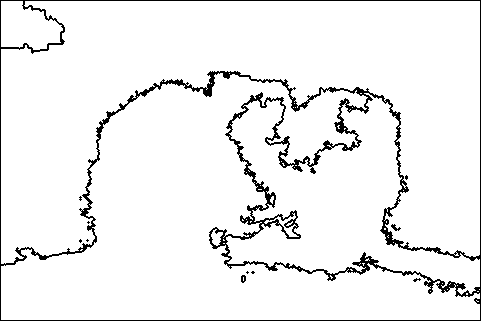
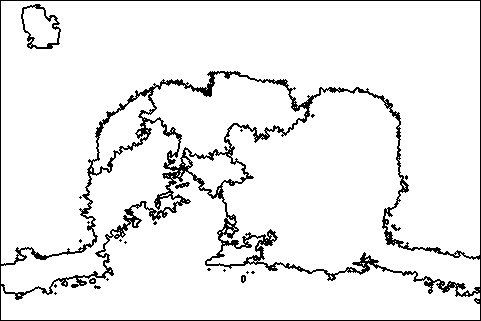
now takes a random amount of segments, between min and max

diff --git a/moea/src/main/java/moea/Chromosome.java b/moea/src/main/java/moea/Chromosome.java
@@ -13,6 +13,8 @@ public class Chromosome {
     MST mst;
     int numberOfPixels;
     int minSegments;
+    int maxSegments;
+    int wantedSegments;
 
     ArrayList<Pixel> rootNodes;
     ArrayList<Segment> segments;
@@ -32,10 +34,12 @@ public class Chromosome {
 
     double[] weights = {0.5,0.5};
 
-    public Chromosome(MST mst, int numberOfPixels, int minSegments, double[] weights){
+    public Chromosome(MST mst, int numberOfPixels, int minSegments, int maxSegments, double[] weights){
         this.mst = mst;
         this.numberOfPixels = numberOfPixels;
         this.minSegments = minSegments;
+        this.maxSegments = maxSegments;
+        this.wantedSegments = new Random().nextInt(maxSegments-minSegments) + minSegments; // gives [minsegs, maxSegs)
         this.weights = weights;
 
         this.rootNodes = new ArrayList<>();
@@ -139,7 +143,8 @@ public class Chromosome {
         // burde kansje bruke en form for k-nearest Neighbours tror det er ett bra utg.punkt.
         System.out.println("Now concatenating...");
 //        int minPixels = 10000;
-        int minPixels = this.numberOfPixels / minSegments;
+
+        int minPixels = this.numberOfPixels / wantedSegments;
 
 //        List<Segment> segs = this.segments.stream().filter(
 //                segment -> segment.getSegmentSize() < minPixels
@@ -154,7 +159,7 @@ public class Chromosome {
             ).collect(Collectors.toList());
 
             // check if we are allowed to remove // concatenate segments
-            if(this.segments.size() -1 < minSegments){
+            if(this.segments.size() -1 < wantedSegments){
                 run = false;
                 break;
             }
@@ -178,7 +183,7 @@ public class Chromosome {
                 this.segments.remove(se.s2);
 
                 // check if after concatination, we can concatinate another one, or have min segments
-                if((this.segments.size()) - 1 < minSegments){
+                if((this.segments.size()) - 1 < wantedSegments){
                     run = false;
                     break;
                 }

diff --git a/moea/src/main/java/moea/GA.java b/moea/src/main/java/moea/GA.java
@@ -22,7 +22,7 @@ public class GA {
         threadGenerateMST(popSize, MSTs);
 
         ArrayList<Chromosome> population = new ArrayList<>();
-        threadGenerateIndividuals(MSTs, population, 3);
+        threadGenerateIndividuals(MSTs, population, 3, 10);
 
         System.out.println("populationSize: " + MSTs.size());
         System.out.println("Score bitch: " + population.get(0).getFitness());
@@ -120,7 +120,7 @@ public class GA {
     }
 
 
-    private void threadGenerateIndividuals(ArrayList<MST> MSTs, ArrayList<Chromosome> population, int minSegments) {
+    private void threadGenerateIndividuals(ArrayList<MST> MSTs, ArrayList<Chromosome> population, int minSegments, int maxSegments) {
         pool = Executors.newFixedThreadPool(Runtime.getRuntime().availableProcessors());
 
         List<Callable<Chromosome>> callableTasks = new ArrayList<>();
@@ -128,7 +128,7 @@ public class GA {
             int finalT = t;
             callableTasks.add(() -> {
                 MST mst = MSTs.get(finalT);
-                return new Chromosome(mst, mst.fuckersVisited.size(), minSegments, new double[]{0.5,0.5});
+                return new Chromosome(mst, mst.fuckersVisited.size(), minSegments, maxSegments, new double[]{0.5,0.5});
             });
             System.out.println("creating segmenting task :" + t);
         }
